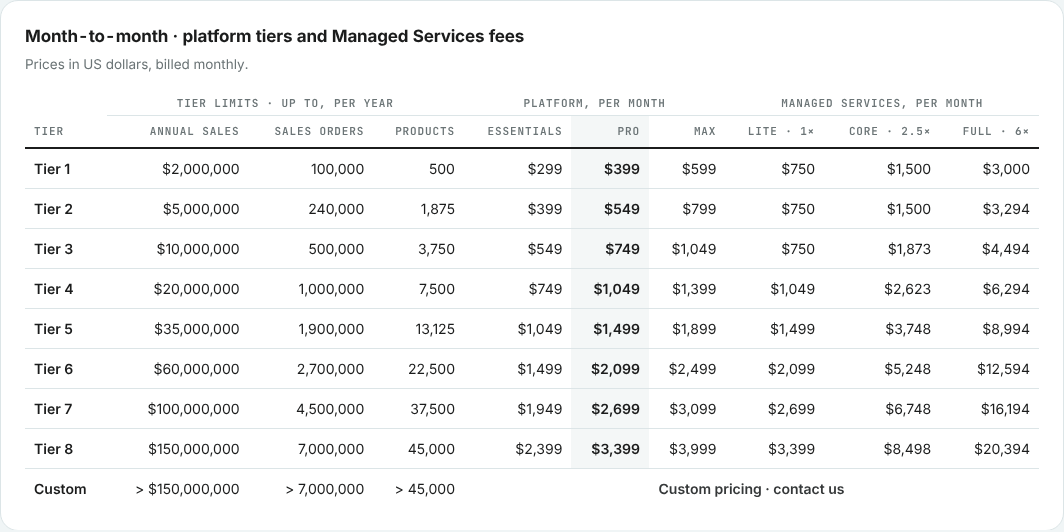
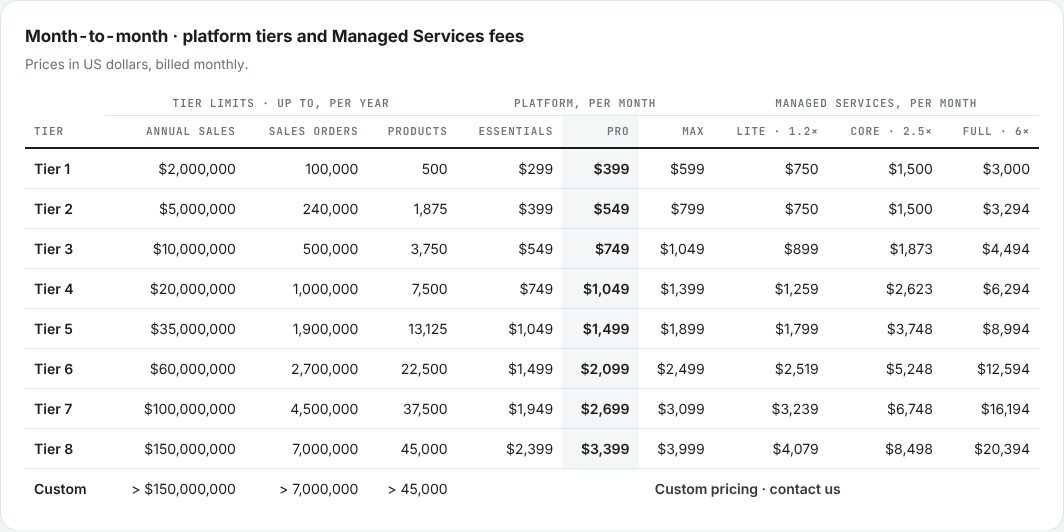
Managed Services: section label What you get; pricing sheet draft at Lite 1.2×
Claude-Session: https://claude.ai/code/session_01HwjZq7y925sP4xPPwTNTp3

diff --git a/hubspot/build/managed-services.html b/hubspot/build/managed-services.html
@@ -1789,7 +1789,7 @@ a.int-tile:hover { border-color: var(--black); }
     <section class="section section-soft" id="what-it-is" aria-labelledby="what-it-is-title">
       <div class="wrap">
         <div class="section-head">
-          <span class="kicker">Managed Services</span>
+          <span class="kicker">What you get</span>
           <h2 class="h2" id="what-it-is-title" style="margin-top:20px">What Managed Services is</h2>
         </div>
         <p class="feat-approval">Managed Services pairs a Flieber tool built for your brand with a team of Flieber specialists who work alongside yours, where planning, operations and technology meet: the decisions your team makes, the execution that follows and the tools, AI and automation that make both easier.</p>

diff --git a/managed-services/index.html b/managed-services/index.html
@@ -290,7 +290,7 @@
     <section class="section section-soft" id="what-it-is" aria-labelledby="what-it-is-title">
       <div class="wrap">
         <div class="section-head">
-          <span class="kicker">Managed Services</span>
+          <span class="kicker">What you get</span>
           <h2 class="h2" id="what-it-is-title" style="margin-top:20px">What Managed Services is</h2>
         </div>
         <p class="feat-approval">Managed Services pairs a Flieber tool built for your brand with a team of Flieber specialists who work alongside yours, where planning, operations and technology meet: the decisions your team makes, the execution that follows and the tools, AI and automation that make both easier.</p>

diff --git a/scripts/build-content.py b/scripts/build-content.py
@@ -969,7 +969,7 @@ def ms_main() -> str:
     tick = '<span class="ico" aria-hidden="true"><svg width="12" height="12" viewBox="0 0 12 12" fill="none"><path d="M2 6.2l2.6 2.6L10 3.2" stroke="#1B1C1C" stroke-width="1.6"/></svg></span>'
     out = page_head(M["name"], M["h1"], M["lead"], demo_first=True)
     # positioning and what every plan includes, in one section (Nov 24)
-    out += section("what-it-is", "Managed Services", M["what_h2"], f'''        <p class="feat-approval">{esc(M["what"])}</p>
+    out += section("what-it-is", "What you get", M["what_h2"], f'''        <p class="feat-approval">{esc(M["what"])}</p>
         <h3 class="h3 ms-sub" id="every-plan">{esc(M["do_h2"])}</h3>
         <div class="why-grid mcp-do">
 {cards(M["do"])}

diff --git a/docs/26-10-05 Website - Technical Briefing (Option 2).md b/docs/26-10-05 Website - Technical Briefing (Option 2).md
@@ -357,6 +357,7 @@ Decisions taken with Fabricio for Option 2, newest first. Option 1's decision lo
 
 | Date | Decision |
 | --- | --- |
+| Nov 24 | Managed Services Lite is 1.2× the Pro tier price, minimum $750 (Fabricio: parameter changed after the briefing; matches the proposals). Pricing sheet draft updated: column Lite · 1.2× ($750, $750, $899, $1,259, $1,799, $2,519, $3,239, $4,079, checked against the proposal annex) and the note says 1.2×; still unpublished. "AI reads your data and documents" confirmed. /managed-services section 2 label renamed "What you get" so it no longer repeats the page label "Managed Services". Railway prototype only |
 | Nov 24 | Managed Services page restructured (Fabricio): lead closes on "All in a Flieber tool built for your brand." instead of "Decisions always stay with you."; "What Managed Services is" and "Every plan includes" combined in one section; "Levels" renamed "Plans" everywhere (Three plans; no level labels; /pricing and agent files follow). Generic Outcomes replaced by "What we bring" / "Not another pair of hands: the intersection your team doesn't have", framed like the Managed Services proposals: three cards (Planning · Decisions, Operations · Execution, Technology · Usability, AI and automation) and four benefits (A new tool, not more workarounds; What works at other brands; Your bridge to AI-first planning; One shared picture, knowledge that stays). "Who it's for" rewritten around complexity or fast growth, missing time or know-how, the planning-operations-technology team with 1,000+ brands, and a tool built for the brand. "One product" became "Built for you" / "The same platform, a tool built for you", contrasting it with the standard Self-Serve app. Railway prototype only |
 | Nov 23 | Managed Services copy (Fabricio): no instruction to start small or follow a fixed path; the site sells the level that fits each operation (the month-3 review stays in proposals). Lead: "Your team plans and decides. Flieber's specialists work alongside it at the level that fits your operation: Lite, a second set of eyes on all your data and planning; Core, working sessions and plans built together; Full, operations from purchase orders to the warehouse. Decisions always stay with you." Levels section "Three levels of support" / "Choose the level that fits your operation today, and move up whenever you need more.", cards labelled Level 1, 2, 3; FAQ "Which level is right for us?" replaces "Where should we start?". Team now "planners, data specialists, operators and engineers". Lite's first item "Keep Flieber updated" ("always current"). /pricing and the llms offer line follow. Railway prototype only |
 | Nov 23 | Managed Services split into three levels (Fabricio's briefing; Q&A answers: no prices on the website, no fine print, /customize untouched, "specialists", the custom tool is live, private proposals untouched, Railway first). /managed-services rewritten: H1 "Flieber's specialists, alongside your team"; "What every level includes" (a Flieber tool built for you at yourbrand.flieber.com, requests built in, continuous improvement, a team of specialists); "Three levels, one path" with Step 1 Lite (a second set of eyes on all your data and planning), Step 2 Core (planning, together; the old Lite scope) and Step 3 Full (planning and operations); pricing as "a monthly fee by level and platform tier", button "Talk to a specialist"; FAQ rewritten (no switching rules, no prices; no link to custom builds). Removed wording that broke the new rules: co-lead, heavy lifting, data kept in sync by hand, checking customs documents, quoted per brand. /pricing Managed Services card and FAQ, /agents pricing terms, llms files and capabilities.json (levels list, no prices) updated; homepage prototype line updated. Pricing sheet (/proposals/pricing-sheet, HubSpot page 227346981634): new version in template `Custom/content-mcp/pages/flieber-pricing-sheet-v2.html` (the live page still uses `flieber-pricing-sheet.html`, unchanged); only the page's draft points to v2, not published. Changes: Managed Services columns Lite · 1×, Core · 2.5×, Full · 6× with the briefing's tier prices (checked against the multiples and minimums), and the note "Its fee is a multiple of the month-to-month Pro tier price, with a monthly minimum: 1× for Lite (minimum $750), 2.5× for Core (minimum $1,500) and 6× for Full (minimum $3,000). Discounts apply only to the platform subscription, never to Managed Services." Preview image in docs/previews/ |
